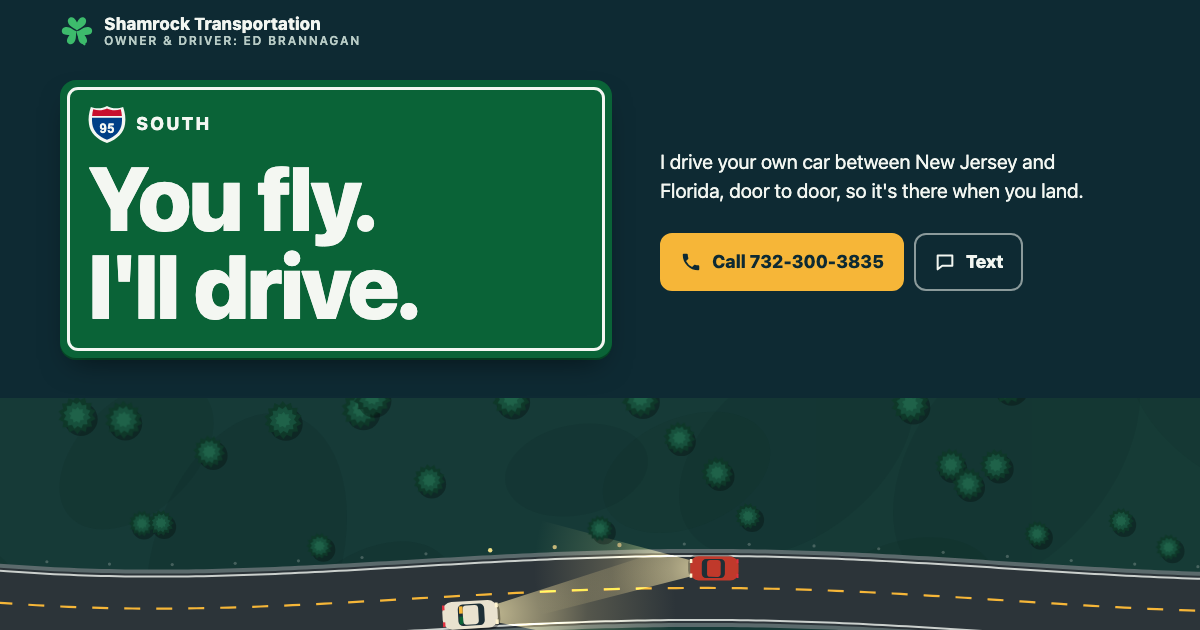
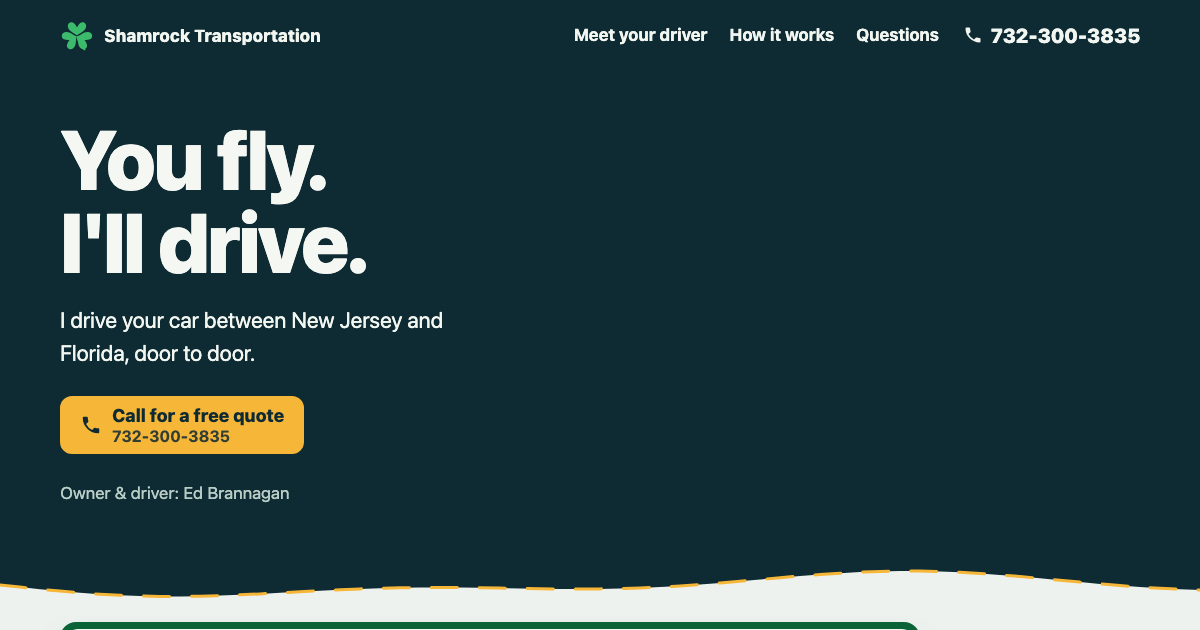
Quiet night hero: headline, one line, one Call button, text link; road moves above the close
Claude-Session: https://claude.ai/code/session_01BJFLxWBzKxTPZcsxj4Hb51

diff --git a/index.html b/index.html
@@ -59,20 +59,21 @@ p{margin:0}
 @media (hover:hover){.nav a:hover,.bar-phone:hover{border-bottom-color:var(--focus)}}
 .nav,.bar-phone{display:none}
 .bar b{font-size:17px;font-weight:800;letter-spacing:.01em;line-height:1.1}
-.bar b span{display:block;font-size:14px;font-weight:600;letter-spacing:.14em;text-transform:uppercase;color:var(--on-dark-soft)}
-@media (max-width:379px){.bar b span{letter-spacing:.06em}}
 
 /* ---------- Hero ---------- */
-.hero{position:relative;padding-top:14px}
-.hero-copy{display:grid;gap:18px}
+.hero{position:relative;padding-top:34px}
+.hero-copy{display:grid;gap:20px;padding-bottom:28px}
+.hero-copy > *{max-width:680px}
+.hero h1{font-size:clamp(3rem,14vw,5.2rem);color:#f4f7f2;letter-spacing:-.02em;line-height:1}
+.hero h1 span{display:block}
+.hero-act{display:grid;gap:6px;margin-top:6px}
+.btn-wide{justify-content:flex-start;padding:0 22px;min-height:66px}
+.text-link{justify-self:start;display:inline-flex;align-items:center;min-height:48px;padding:0 4px;font-size:18px;font-weight:700;color:var(--on-dark);text-underline-offset:5px;text-decoration-thickness:2px}
+@media (hover:hover){.text-link:hover{text-decoration-color:var(--focus)}}
+.owner{font-size:17px;color:var(--on-dark-soft);margin-top:6px}
 .sign{background:var(--sign);border-radius:16px;padding:7px;box-shadow:0 14px 30px -12px rgba(0,0,0,.55),0 2px 0 var(--sign-deep)}
 .sign-in{border:3px solid #f4f7f2;border-radius:11px;padding:14px 18px 18px}
-.sign-top{display:flex;align-items:center;gap:10px;margin-bottom:10px}
-.sign-top svg{width:38px;height:40px}
-.sign-top span{font-weight:800;font-size:18px;letter-spacing:.12em;color:#f4f7f2}
-.sign h1{font-size:clamp(3rem,15vw,5.6rem);color:#f4f7f2;letter-spacing:-.02em;line-height:.98}
-.sign h1 span{display:block}
-.promise{font-size:clamp(17px,4.9vw,20px);line-height:1.45;color:var(--on-dark);max-width:34ch}
+.promise{font-size:clamp(19px,5.2vw,22px);line-height:1.5;color:var(--on-dark);max-width:30ch}
 .ctas{display:grid;grid-template-columns:1fr;gap:10px}
 .two-line{display:flex;flex-direction:column;align-items:flex-start;line-height:1.2}
 .two-line small{font-size:16px;font-weight:700;opacity:.85}
@@ -85,12 +86,12 @@ p{margin:0}
 @media (hover:hover){.btn-ghost:hover{border-color:var(--focus);color:#fff}}
 
 /* road canvas */
-.road{position:relative;margin-top:22px;height:236px;background:linear-gradient(#173c33,#163a37)}
+.road{position:relative;height:190px;background:linear-gradient(#173c33,#163a37)}
 .road canvas{position:absolute;inset:0;width:100%;height:100%}
 
 /* ---------- Seams: a lane line along the top of the next section ---------- */
 .seam{position:relative;z-index:1;pointer-events:none;display:block;width:100%;height:44px;margin-bottom:-1px}
-.road + .seam,.hero .seam{margin-top:-44px}
+.hero .seam{margin-top:0}
 .seam path.fill{fill:var(--next)}
 .seam path.lane{fill:none;stroke:var(--lane);stroke-width:3;stroke-dasharray:26 22;stroke-linecap:round}
 
@@ -128,10 +129,12 @@ section.pad{padding:44px 0 64px}
 /* Good to know */
 .qa{margin-top:22px;border-top:2px solid #c8d4cb;max-width:760px}
 .qa h3{font-size:20px;font-weight:750;line-height:1.35;letter-spacing:0;margin:20px 0 8px}
-.qa p{max-width:60ch;padding-bottom:20px;border-bottom:2px solid #c8d4cb}
+.qa p{padding-bottom:20px;border-bottom:2px solid #c8d4cb}
 
 /* Close */
-.close{padding:48px 0 56px;text-align:left}
+.close{padding:0 0 56px;text-align:left}
+.close .wrap{padding-top:36px}
+.close .road::after{content:"";position:absolute;left:0;right:0;bottom:0;height:40px;background:linear-gradient(rgba(14,42,51,0),var(--night));pointer-events:none}
 .close h2{color:var(--on-dark)}
 .close .lede{color:var(--on-dark-soft)}
 .close .ctas{margin-top:22px;max-width:520px}
@@ -158,15 +161,13 @@ footer a{color:var(--on-dark);text-decoration-thickness:2px;text-underline-offse
 
 /* ---------- Wider screens ---------- */
 @media (min-width:760px){
-  .road + .seam,.hero .seam{margin-top:-64px}
-  .hero{padding-top:28px}
-  .hero-copy{grid-template-columns:minmax(0,1.15fr) minmax(0,1fr);align-items:end;gap:28px 48px}
-  .sign{grid-row:span 2}
-  .promise{align-self:end}
+  .hero{padding-top:56px}
+  .hero-copy{padding-bottom:44px}
+  .hero-act{justify-items:start}
   .ctas{align-self:start;grid-template-columns:auto auto;justify-content:start}
   .nav{display:flex}.bar-phone{display:inline-flex}
   footer{padding-bottom:40px}
-  .road{height:340px;margin-top:40px}
+  .road{height:260px}
   .pack-grid{grid-template-columns:1.1fr 1fr;align-items:center}
   .two{display:grid;grid-template-columns:1fr 1fr;gap:64px}
   .sh{margin-top:0}
@@ -176,7 +177,7 @@ footer a{color:var(--on-dark);text-decoration-thickness:2px;text-underline-offse
   .ed .sign-in{padding:40px 44px}
   footer .wrap{grid-template-columns:auto auto auto auto;justify-content:space-between;align-items:center}
 }
-@media (min-width:1100px){.road{height:380px}}
+
 @media (prefers-reduced-motion:reduce){html{scroll-behavior:auto}}
 </style>
 </head>
@@ -201,38 +202,25 @@ FINISH: unreviewed and undocumented is unfinished; this build ends with the fini
     </symbol>
     <symbol id="phone" viewBox="0 0 24 24"><path fill="currentColor" d="M6.6 10.8a15.1 15.1 0 0 0 6.6 6.6l2.2-2.2c.3-.3.7-.4 1-.2 1.1.4 2.3.6 3.6.6.6 0 1 .4 1 1V20c0 .6-.4 1-1 1A17 17 0 0 1 3 4c0-.6.4-1 1-1h3.5c.6 0 1 .4 1 1 0 1.3.2 2.5.6 3.6.1.3 0 .7-.2 1z"/></symbol>
     <symbol id="chat" viewBox="0 0 24 24"><path fill="none" stroke="currentColor" stroke-width="2.2" stroke-linejoin="round" d="M4 5h16v11H9l-5 4z"/></symbol>
-    <symbol id="shield" viewBox="0 0 40 42">
-      <path d="M3 3c5 2 12 2 17-1 5 3 12 3 17 1 2 6 3 12 2 18-1 9-8 16-19 20C9 37 2 30 1 21 0 15 1 9 3 3z" fill="#f4f7f2"/>
-      <path d="M5.5 5.6c5 1.5 10.5 1.2 14.5-.9 4 2.1 9.5 2.4 14.5.9.6 2.3 1 4.6 1.2 6.9H4.3c.2-2.3.6-4.6 1.2-6.9z" fill="#c8102e"/>
-      <path d="M4.2 14.5h31.6c.1 2.2 0 4.4-.3 6.4-1 7.6-6.8 13.2-15.5 16.7C11.3 34.1 5.5 28.5 4.5 20.9c-.3-2-.4-4.2-.3-6.4z" fill="#003f87"/>
-      <text x="20" y="31" text-anchor="middle" font-family="-apple-system,Segoe UI,Arial,sans-serif" font-weight="800" font-size="14" fill="#f4f7f2">95</text>
-    </symbol>
   </defs>
 </svg>
 
 <header class="bar">
-  <a class="brand" href="#top" aria-label="Shamrock Transportation, back to top"><svg aria-hidden="true"><use href="#clover"/></svg><b>Shamrock Transportation<span>Owner &amp; driver: Ed Brannagan</span></b></a>
+  <a class="brand" href="#top" aria-label="Shamrock Transportation, back to top"><svg aria-hidden="true"><use href="#clover"/></svg><b>Shamrock Transportation</b></a>
   <nav class="nav" aria-label="Sections"><a href="#driver">Meet your driver</a><a href="#how">How it works</a><a href="#questions">Questions</a></nav>
   <a class="bar-phone" href="tel:+17323003835"><svg aria-hidden="true"><use href="#phone"/></svg>732-300-3835</a>
 </header>
 
 <main id="top">
-<section class="hero" aria-label="Shamrock Transportation">
+<section class="hero" aria-labelledby="hero-h">
   <div class="wrap hero-copy">
-    <div class="sign">
-      <div class="sign-in">
-        <div class="sign-top"><svg aria-hidden="true"><use href="#shield"/></svg><span id="heading">SOUTH</span></div>
-        <h1><span>You fly.</span><span>I'll drive.</span></h1>
-      </div>
+    <h1 id="hero-h"><span>You fly.</span><span>I'll drive.</span></h1>
+    <p class="promise">I drive your car between New Jersey and Florida, door to door.</p>
+    <div class="hero-act" id="heroCtas">
+      <a class="btn btn-call btn-wide" href="tel:+17323003835"><svg aria-hidden="true"><use href="#phone"/></svg><span class="two-line">Call for a free quote<small>732-300-3835</small></span></a>
+      <a class="text-link js-sms" href="sms:+17323003835">or send a text</a>
     </div>
-    <p class="promise">Personal, door-to-door car delivery between New Jersey and Florida. You speak directly with the person who drives your car: me.</p>
-    <div class="ctas" id="heroCtas">
-      <a class="btn btn-call" href="tel:+17323003835"><svg aria-hidden="true"><use href="#phone"/></svg><span class="two-line">Call for a free quote<small>732-300-3835</small></span></a>
-      <a class="btn btn-ghost js-sms" href="sms:+17323003835"><svg aria-hidden="true"><use href="#chat"/></svg>Send a text</a>
-    </div>
-  </div>
-  <div class="road" id="road">
-    <canvas id="roadCanvas" role="img" aria-label="A packed car driving I-95 at night from New Jersey to Florida."></canvas>
+    <p class="owner">Owner &amp; driver: Ed Brannagan</p>
   </div>
   <svg class="seam" viewBox="0 0 1200 64" preserveAspectRatio="none" style="--next:var(--paper);--lane:var(--amber)" aria-hidden="true"><path class="fill"/><path class="lane"/></svg>
 </section>
@@ -321,9 +309,12 @@ FINISH: unreviewed and undocumented is unfinished; this build ends with the fini
   </div>
 </section>
 
-<svg class="seam" viewBox="0 0 1200 64" preserveAspectRatio="none" style="--next:var(--night);--lane:var(--amber);background:var(--paper)" aria-hidden="true"><path class="fill"/><path class="lane"/></svg>
+<svg class="seam" viewBox="0 0 1200 64" preserveAspectRatio="none" style="--next:#173c33;--lane:var(--amber);background:var(--paper)" aria-hidden="true"><path class="fill"/><path class="lane"/></svg>
 
 <section class="close" aria-labelledby="close-h">
+  <div class="road" id="road">
+    <canvas id="roadCanvas" role="img" aria-label="A packed car driving I-95 at night from New Jersey to Florida."></canvas>
+  </div>
   <div class="wrap">
     <h2 id="close-h">Heading south this winter?</h2>
     <p class="lede">I drive between New Jersey and Florida, door to door. Call me for a free quote.</p>
@@ -355,7 +346,6 @@ FINISH: unreviewed and undocumented is unfinished; this build ends with the fini
   var north = m >= 2 && m <= 7;             // Mar–Aug: heading home to Jersey
   window.SHAMROCK_NORTH = north;
   if (north){
-    document.getElementById('heading').textContent = 'NORTH';
     document.getElementById('close-h').textContent = 'Heading home this spring?';
   }
   var body = "Hi Ed, I'd like my car driven from ___ to ___ around ___.";
@@ -427,7 +417,7 @@ function watch(el, job){
 
   function hash(i){ var x = Math.sin(i * 127.1 + 311.7) * 43758.5453; return x - Math.floor(x); }
   function smooth(a, b, x){ x = Math.max(0, Math.min(1, (x - a) / (b - a))); return x * x * (3 - 2 * x); }
-  function roadY(wx){ return H * 0.45 + H * 0.12 * Math.sin(wx / 520) + H * 0.07 * Math.sin(wx / 233 + 1.3); }
+  function roadY(wx){ return H * 0.48 + H * 0.12 * Math.sin(wx / 520) + H * 0.07 * Math.sin(wx / 233 + 1.3); }
   function slope(wx){ return (roadY(wx + 2) - roadY(wx - 2)) / 4; }
 
   function size(){
